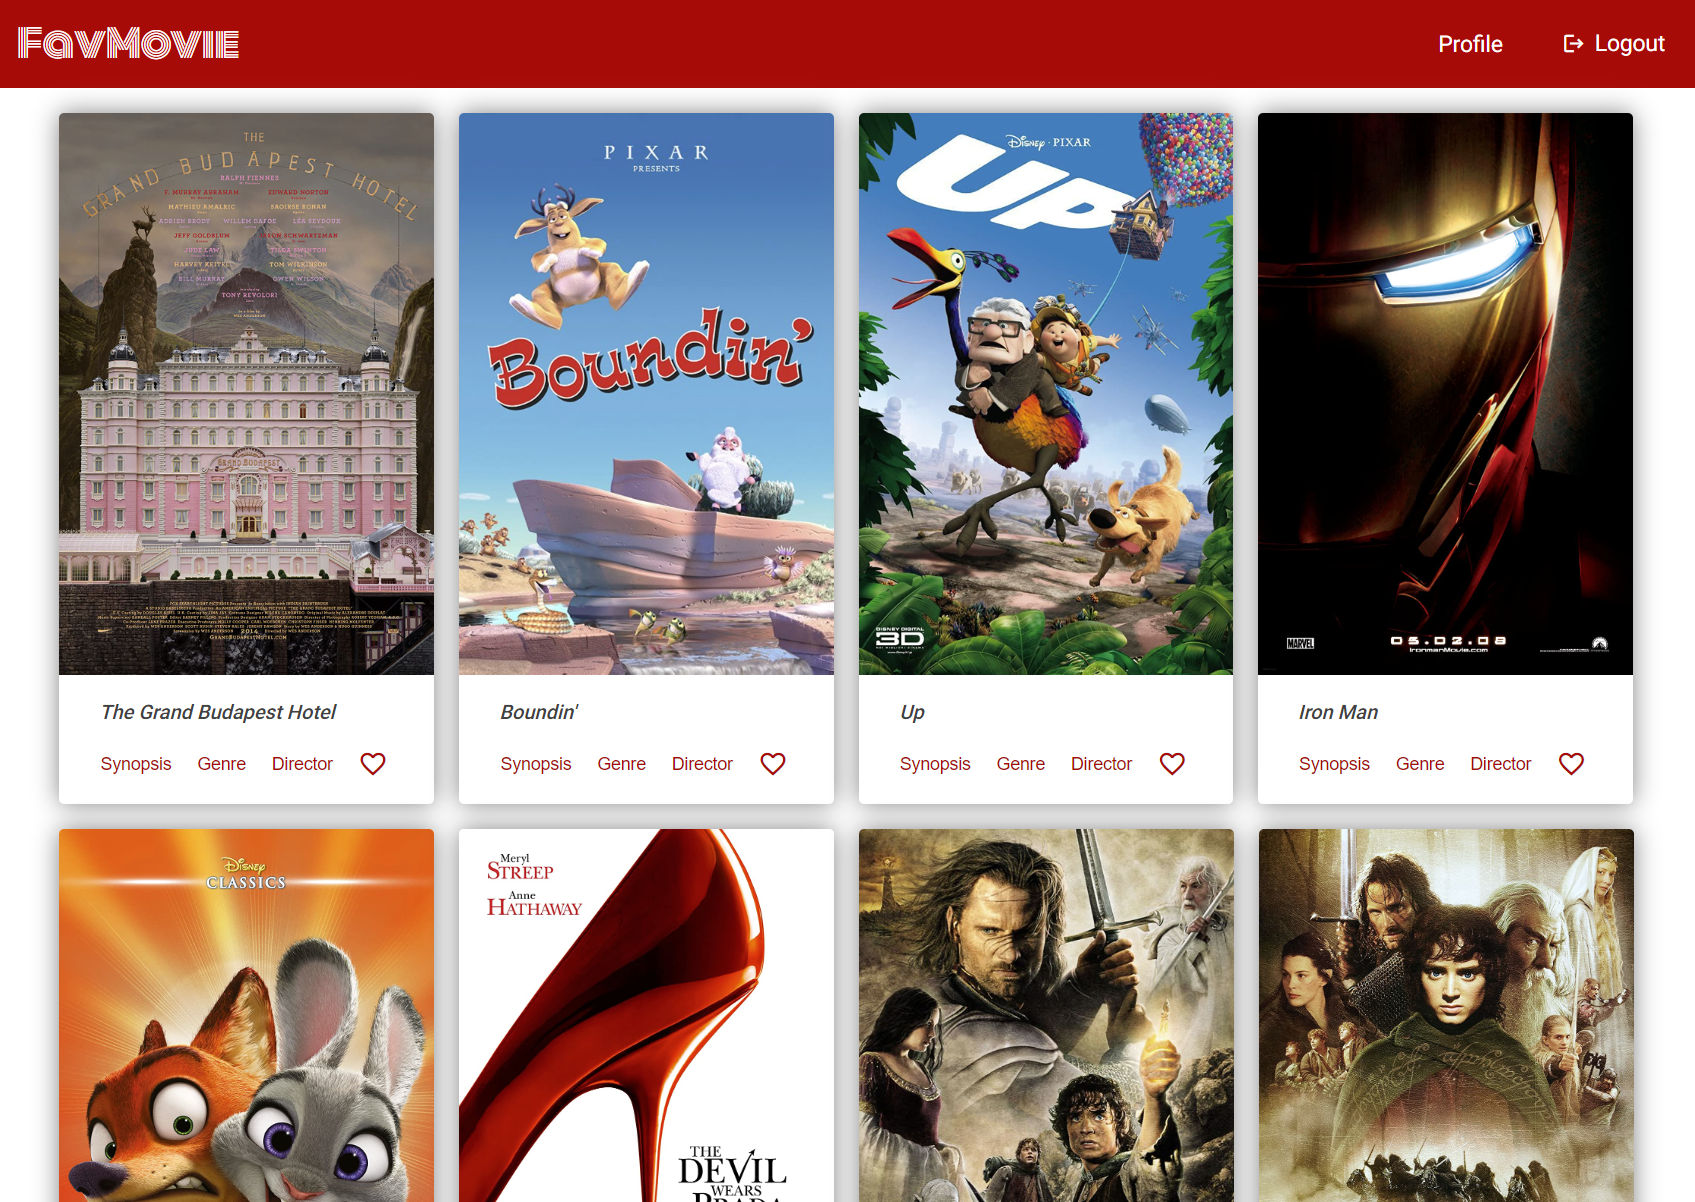
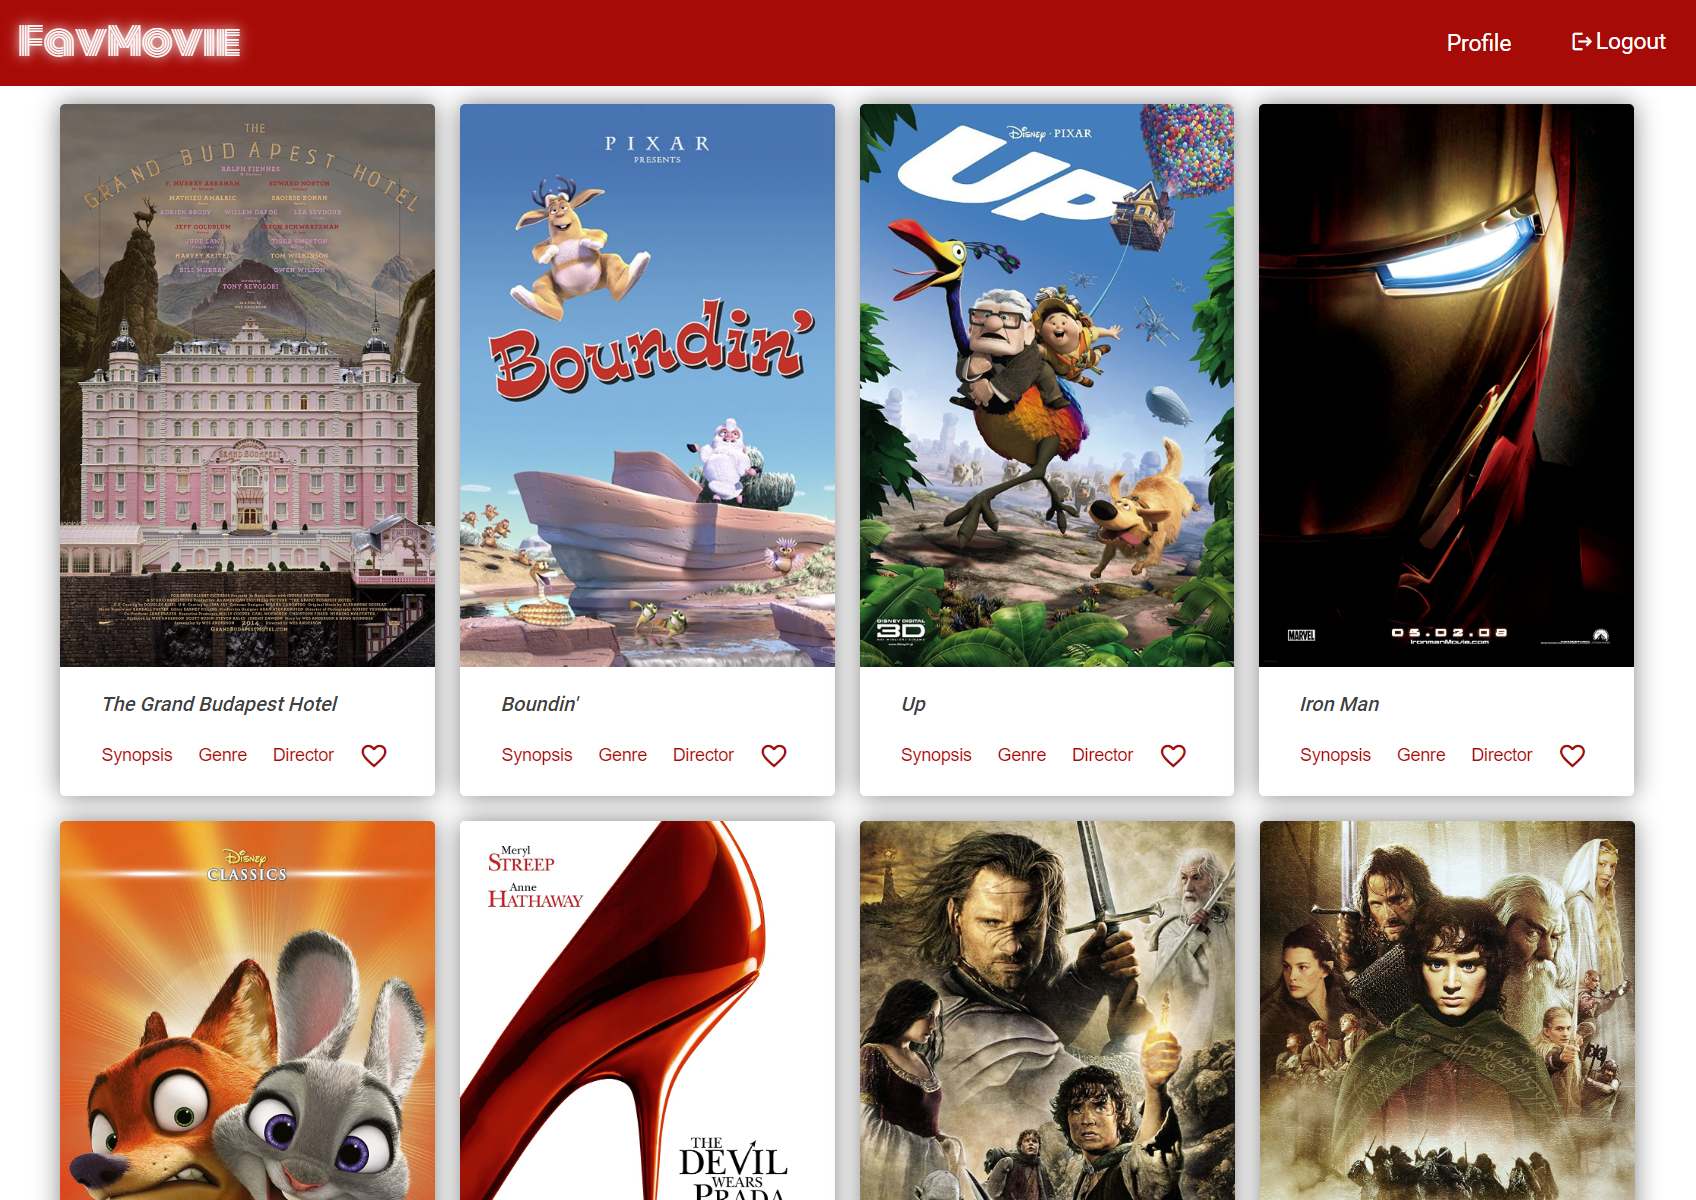
Add media queries for navbar and move-list

Changed region(s): [[0.0, 0.0, 0.9817, 1.0], [0.2761, 0.9558, 0.3068, 1.0]]

diff --git a/src/app/navbar/navbar.component.scss b/src/app/navbar/navbar.component.scss
@@ -1,10 +1,15 @@
-$textSize: 18px;
+$textSizeLarg: 18px;
+$textSizeSmall: 14px;
 $primary: #b20000;
 $textColor: white;
 
-.mat-toolbar {
+.navbar {
+  position:fixed;
+  top:0;
+  z-index: 1;
+  overflow: hidden;
+  width: 100%;
   display: flex;
-  height: 70px;
   background-color: $primary;
   color: $textColor;
 }
@@ -21,20 +26,98 @@ a:hover {
 
 .nav-logo {
   flex: 1 1 auto;
-  font-size: 30px;
   font-family: 'Monoton', cursive;
-}
-
-.nav-profile {
-  font-size: $textSize;
-  margin-top: 1px;
-}
-
-.icon-profile {
-  margin-top: 5px;
+  filter:drop-shadow(0 0 5px white);
 }
 
 .nav-logout {
   padding-left: 3%;
-  font-size: $textSize;
+}
+
+.logout-button > mat-icon {
+  margin-right: 2px;
+}
+
+@media all and (max-width: 300px) {
+  .navbar {
+    height: 45px;
+  }
+
+  .nav-logo {
+    font-size:18px;
+  }
+
+  .nav-profile, .nav-logout {
+    font-size: 12px;
+  }
+
+  .nav-profile {
+    margin-top: 0.5px;
+  }
+}
+
+@media all and (min-width: 300px) and (max-width: 500px) {
+  .navbar {
+    height: 50px;
+  }
+
+  .nav-logo {
+    font-size:24px;
+  }
+
+  .nav-profile, .nav-logout {
+    font-size: 14px;
+  }
+
+  .nav-logout__text {
+    margin-bottom: 1px;
+  }
+
+  .logout-button > mat-icon {
+    margin-top: 2px;
+  }
+}
+
+@media all and (min-width: 500px) and (max-width: 1000px) {
+  .navbar {
+    height: 60px;
+  }
+
+  .nav-logo {
+    font-size:28px;
+  }
+
+  .nav-profile, .nav-logout {
+    font-size: 18px;
+  }
+
+  .nav-profile {
+    margin-top: 1px;
+  }
+
+  .nav-logout__text {
+    margin-top: 1px;
+  }
+
+  .logout-button > mat-icon {
+    margin-top: 1px;
+  }
+}
+
+@media all and (min-width: 1000px) {
+  .navbar {
+    height: 70px;
+  }
+
+  .nav-logo {
+    font-size:30px;
+  }
+
+  .nav-profile, .nav-logout {
+    font-size: 18px;
+  }
+
+  .nav-profile {
+    margin-top: 2px;
+  }
 }

diff --git a/src/app/movie-card/movie-card.component.scss b/src/app/movie-card/movie-card.component.scss
@@ -10,7 +10,6 @@ $textColor: #414141;
   flex-wrap: wrap;
   justify-content: center;
   width: 100%;
-  margin-top: 10px;
 }
 
 .movie-card {
@@ -20,7 +19,6 @@ $textColor: #414141;
   align-items: center;
   position: relative;
   margin:10px;
-  max-width: 300px;
   box-shadow: 0 0 20px grey;
 }
 
@@ -51,4 +49,48 @@ $textColor: #414141;
 .movie-actions button {
   font-size: 14px;
   color: $primary;
+}
+
+@media all and (max-width: 300px) {
+  .movie-list {
+    margin-top: 50px;
+  }
+
+  .movie-card {
+    max-width: 280px;
+  }
+
+  .movie-img {
+    height: 400px;
+  }
+}
+
+@media all and (min-width: 300px) and (max-width: 500px) {
+  .movie-list {
+    margin-top: 60px;
+  }
+
+  .movie-card {
+    max-width: 500px;
+  }
+}
+
+@media all and (min-width: 500px) and (max-width: 1000px) {
+  .movie-list {
+    margin-top: 70px;
+  }
+
+  .movie-card {
+    max-width: 300px;
+  }
+}
+
+@media all and (min-width: 1000px) {
+  .movie-list {
+    margin-top: 75px;
+  }
+
+  .movie-card {
+    max-width: 300px;
+  }
 }

diff --git a/src/app/navbar/navbar.component.html b/src/app/navbar/navbar.component.html
@@ -1,6 +1,6 @@
 <style> @import url('https://fonts.googleapis.com/css2?family=Monoton&display=swap'); </style>
 
-<mat-toolbar>
+<mat-toolbar class="navbar">
   <span class="nav-logo">
     <a routerLink="/movies">FavMovie</a>
   </span>
@@ -13,7 +13,8 @@
 
   <span class="nav-logout">
     <a mat-button (click)="logout()" class="logout-button">
-      <mat-icon>logout</mat-icon>Logout
+      <mat-icon>logout</mat-icon>
+      <span class="nav-logout__text">Logout</span>
     </a>
   </span>
 </mat-toolbar>

diff --git a/src/app/movie-card/movie-card.component.html b/src/app/movie-card/movie-card.component.html
@@ -1,5 +1,4 @@
 <app-navbar></app-navbar>
-<div class="container">
 <div class="movie-list">
   <mat-card class="movie-card" *ngFor="let movie of movies; let i=index;">
     <div class="img-wrapper">
@@ -42,5 +41,4 @@
     </mat-card-actions>
   
   </mat-card>
-</div>
 </div>
